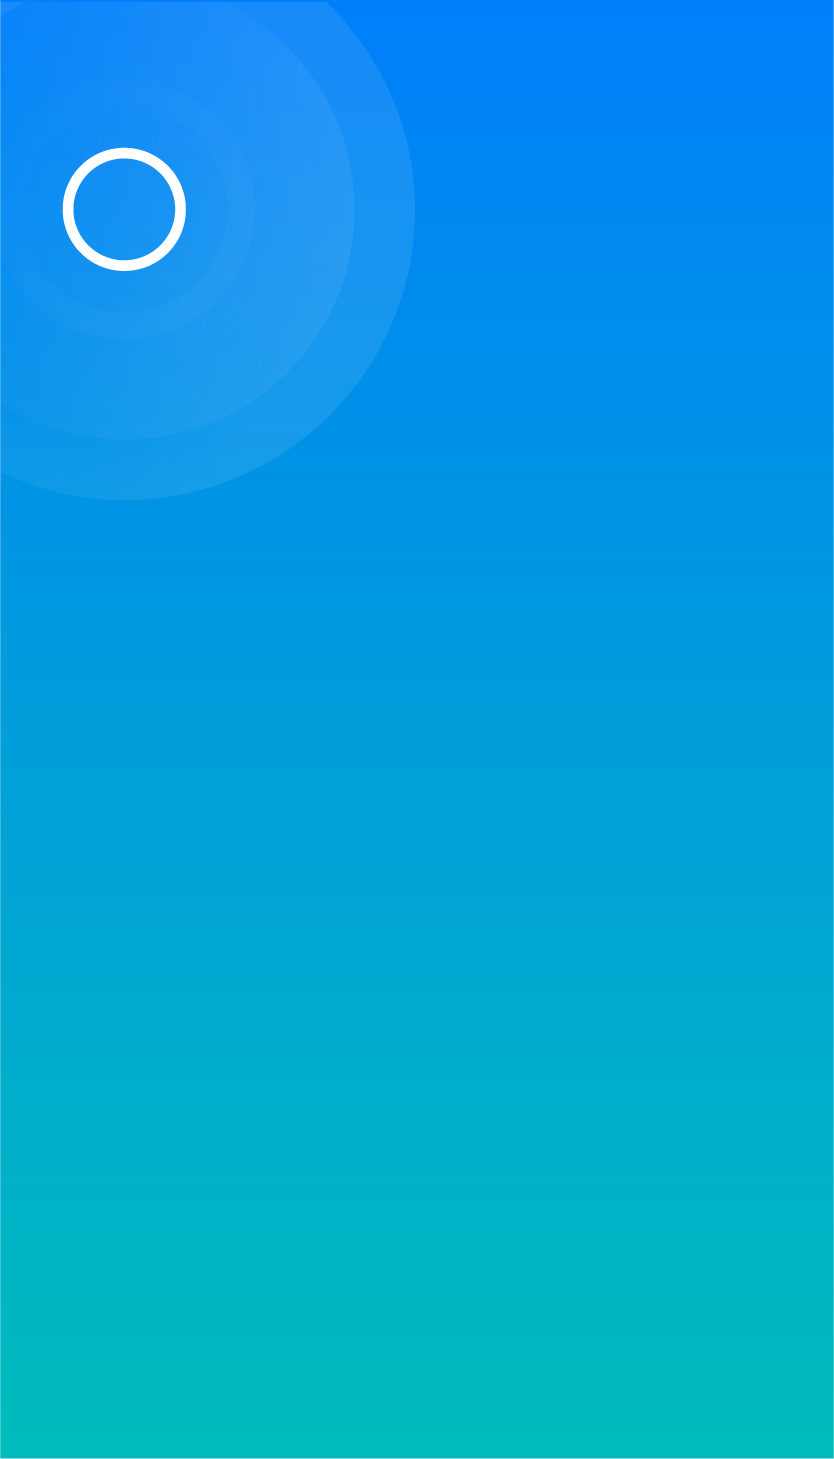
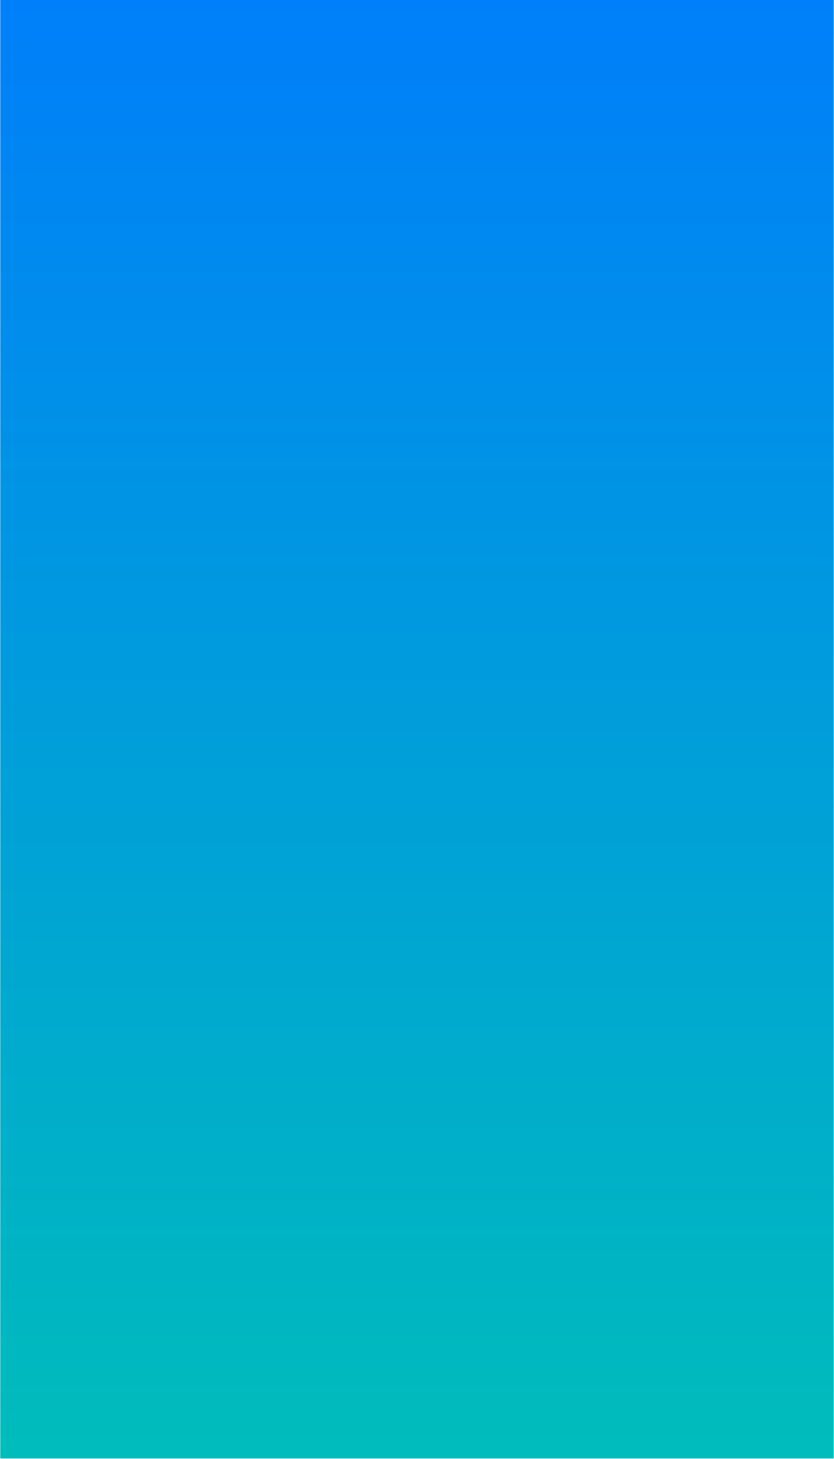
include load upload file, update CardMap, add img menu

Changed region(s): [[0.0624, 0.0, 0.4365, 0.3084]]

diff --git a/src/containers/Travels/StartTravel/index.js b/src/containers/Travels/StartTravel/index.js
@@ -8,6 +8,7 @@ import React, { Component } from 'react';
 import {
   Platform, ActivityIndicator, Linking,
 } from 'react-native';
+import Toast from 'react-native-tiny-toast';
 
 import MapView from 'react-native-maps';
 import Geolocation from '@react-native-community/geolocation';
@@ -78,6 +79,8 @@ class StartTravel extends Component {
     const { status } = this.state;
     const offer = navigation.getParam('Offer', null);
 
+    console.log('reload', isReload);
+
     if (offer !== null) {
       if (!isReload) {
         offers.data.map((newOffer) => {
@@ -88,7 +91,7 @@ class StartTravel extends Component {
       }
       const geoId = Geolocation.watchPosition(
         e => this.ads(e.coords),
-        error => alert(JSON.stringify(error)),
+        error => console.log(JSON.stringify(error)),
         {
           enableHighAccuracy: true, timeout: 20000, maximumAge: 0, distanceFilter: 100,
         },
@@ -144,7 +147,6 @@ class StartTravel extends Component {
       },
     };
 
-    console.log('reserdata', data);
     setTimeout(() => {
       putStateOriginTravel(idOffer, data);
       alert('reset ok');
@@ -161,7 +163,6 @@ class StartTravel extends Component {
       },
     };
 
-    console.log(data);
     setTimeout(() => {
       putStateOriginTravel(offerSpecific.id, data);
       this.setState({
@@ -174,7 +175,6 @@ class StartTravel extends Component {
     const { offerSpecific, status, isOrigin } = this.state;
     let lat_des = offerSpecific.origin_latitude;
     let lng_des = offerSpecific.origin_longitude;
-    console.log(isOrigin);
     if (!isOrigin) {
       lat_des = offerSpecific.destination_latitude;
       lng_des = offerSpecific.destination_longitude;
@@ -275,7 +275,6 @@ class StartTravel extends Component {
     const { offerSpecific, status } = this.state;
     const { putStateOriginTravel } = this.props;
     this.setState({ lastLat: e.latitude, lastLong: e.longitude });
-    console.log('ADS-setState', status);
     this.callLocation();
     if (status === 6) {
       const result = this.destinationService(
@@ -353,7 +352,7 @@ class StartTravel extends Component {
       takePhotoButtonTitle: 'Tomar Foto',
       chooseFromLibraryButtonTitle: 'Elige de la biblioteca',
       customButtons: [],
-      quality: 0.5,
+      quality: 0.4,
       storageOptions: {
         skipBackup: true,
         path: 'images',
@@ -375,7 +374,7 @@ class StartTravel extends Component {
           },
         };
         putStateOriginTravel(offerSpecific.id, data);
-        this.setState({ status: statu_id, inTravel: true });
+        this.setState({ status: statu_id, inTravel: true, loadingRegister: false });
         this.componentDidMount(true);
       }
     });
@@ -446,10 +445,19 @@ class StartTravel extends Component {
     const {
       offerSpecific, lastLat, lastLong, waypoints, status, inTravel, manifestSet,
       nonManifest, feed, feed1, feed2, feed3, feed4, feed5, feed6,
-      spinner, isOrigin, aproxOrigin, initTravel, mylocation,
+      spinner, isOrigin, aproxOrigin, initTravel, mylocation, loadingRegister,
     } = this.state;
 
     const { companies, markers, document } = this.props;
+
+    if (loadingRegister) {
+      console.log('document', document);
+      if (!document.fetching && !document.error) {
+        this.setState({ loadingRegister: false });
+      }
+    }
+
+
     if (document.serviceDocuments && !document.fetching && !manifestSet) {
       this.downloadMan();
       this.setState({ manifestSet: true });
@@ -527,6 +535,7 @@ class StartTravel extends Component {
             </WrapperModal>
           </EmptyDialog>
           <MapView
+            // provider={MapView.PROVIDER_GOOGLE}
             initialRegion={{
               latitude: lastLat,
               longitude: lastLong,
@@ -534,6 +543,7 @@ class StartTravel extends Component {
               longitudeDelta: 0.10,
             }}
             followsUserLocation
+            showsUserLocation
             showsIndoorLevelPicker
             style={{ height: '100%', width: '100%' }}
           >
@@ -624,6 +634,15 @@ class StartTravel extends Component {
               secondAddress={isOrigin ? offerSpecific.origin_address : offerSpecific.destination_address}
             />
           </WrapperAdresses>
+          <Toast
+            visible={loadingRegister}
+            position={0}
+            loading
+            shadow
+            animation
+          >
+            Subiendo Foto...
+          </Toast>
         </MainWrapper>
       );
     }

diff --git a/src/navigation/stacks/drawerScreen.js b/src/navigation/stacks/drawerScreen.js
@@ -3,7 +3,7 @@
 /* eslint-disable global-require */
 import React from 'react';
 import { createDrawerNavigator, createAppContainer, DrawerItems } from 'react-navigation';
-import { Dimensions, ImageBackground } from 'react-native';
+import { Dimensions, ImageBackground, Image } from 'react-native';
 import { Container, Content, View } from 'native-base';
 import PropTypes from 'prop-types';
 
@@ -37,8 +37,13 @@ function CustomDrawerContentComponent(props) {
       <Content contentContainerStyle={{ height: '100%' }}>
         <ImageBackground
           source={require('../../Images/MenuCargapp.png')}
-          style={{ width: '130%', height: '100%' }}
+          style={{ width: '130%', height: '100%'/* , backgroundColor: 'black' */ }}
         >
+          <Image
+            source={require('../../Images/MenuCargappCircle.png')}
+            style={{ width: 185, height: 210, position: 'absolute', top: 0, left: 0 }}
+            resizeMode="cover"
+          />
           <AvatarProfile
             avatar={require('../../Images/profile.jpg')}
             press={() => navigate('ScreenProfile')}

diff --git a/src/containers/HomeOffers/index.js b/src/containers/HomeOffers/index.js
@@ -311,7 +311,7 @@ class HomeOffers extends Component {
       && !permissions.fetching
       && parameters.data !== null
       && !parameters.fetching
-      && !fetchinit
+      // && !fetchinit
     ) {
       destinations.data.origins.map((originData) => {
         dataPickOrigin.push({ Name: originData.name });
@@ -348,7 +348,7 @@ class HomeOffers extends Component {
         status_travel.push(parseInt(status_t.code, 10));
       });
       console.log(status_travel);
-      this.setState({ fetchinit: true });
+      // this.setState({ fetchinit: true });
       /* status offers */
       if (offers.myOffers) {
         offers.myOffers.forEach((offer) => {

diff --git a/src/containers/Travels/StartTravel/styles.js b/src/containers/Travels/StartTravel/styles.js
@@ -3,8 +3,8 @@ import styled from 'styled-components/native';
 export const MainWrapper = styled.View`
   width: 100%;
   height: 100%;
-  justify-content: center;
-  align-items: center;
+  /* justify-content: center;
+  align-items: center; */
   flex-direction: column;
 `;
 
@@ -43,9 +43,10 @@ export const WrapperImage = styled.Image`
 
 export const WrapperAdresses = styled.View`
   position: absolute;
-  bottom: 5%;
+  bottom: 4%;
   width: 100%;
-  height: auto;  
+  height: auto;
+  opacity: 0.88;  
 `;
 
 export const WrapperTopCard = styled.View`

diff --git a/src/components/AddressesCardMap/style.js b/src/components/AddressesCardMap/style.js
@@ -1,11 +1,11 @@
 import styled from 'styled-components/native';
 
 export const MainWrapper = styled.View`
-    width: 100%;
-    height: auto;
-    border-radius: 8px;
-    background-color: white;
-    `;
+  width: 100%;
+  height: auto;
+  border-radius: 8px;
+  background-color: white;
+`;
 
 export const WrapperCard = styled.View`
   flex-direction: row;
